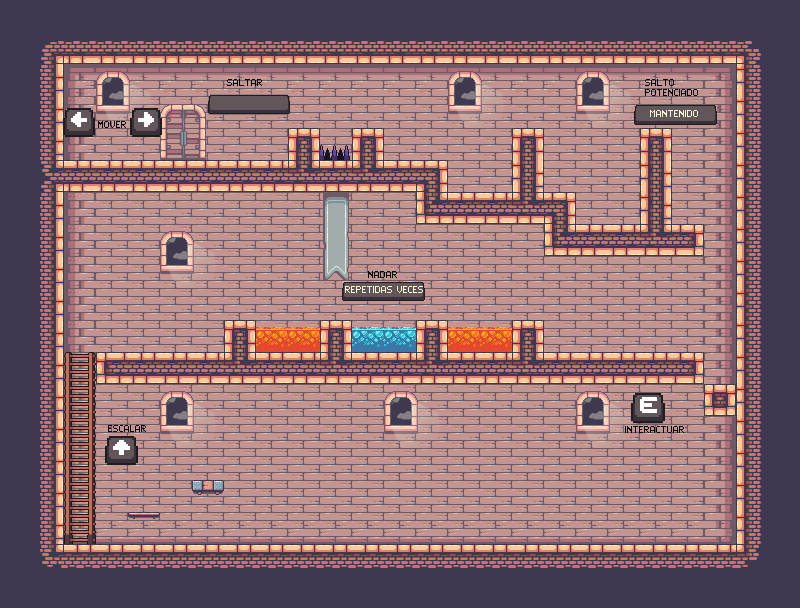
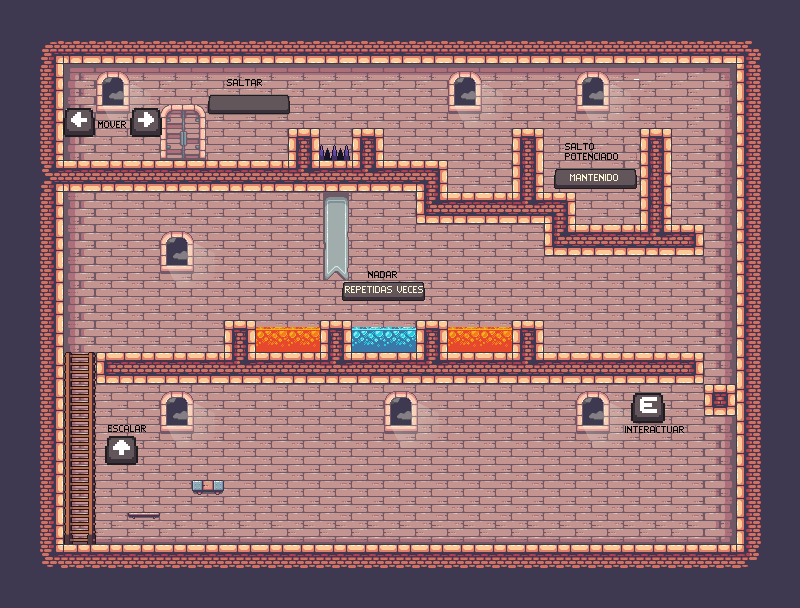
.

Changed region(s): [[0.7812, 0.0938, 0.9062, 0.2188], [0.6875, 0.2188, 0.8125, 0.3125]]

diff --git a/Classes/Bomb.py b/Classes/Bomb.py
@@ -2,16 +2,17 @@ import pygame
 from CRUD import Functions
 
 class bomb(pygame.sprite.Sprite):
-    def __init__(self,position):
+    def __init__(self,position,direction):
         pygame.sprite.Sprite.__init__(self)
         self.image = pygame.Surface([37,26])
         self.image.fill(Functions.SelectColor('Yellow'))
         self.rect = self.image.get_rect()
         self.rect.x = position[0]
         self.rect.y = position[1]
-        self.velx = 5
+        self.velx = direction
         self.vely = 0
         self.Bloques = None
+        self.time = 60
         
     def update(self):
         #Posicion y velocidad en x
@@ -19,7 +20,10 @@ class bomb(pygame.sprite.Sprite):
 
         if self.velx > 0:
             self.velx -= 1
-        """
+        
+        if self.time > 0:
+            self.time -= 1
+
         #colision x--------------------------------------------------------------------------------------
         listaColision=pygame.sprite.spritecollide(self,self.Bloques,False)
         for b in listaColision:
@@ -29,11 +33,10 @@ class bomb(pygame.sprite.Sprite):
             elif ((self.rect.left <= b.rect.right) and (self.rect.left >= b.rect.left)):
                 self.velx=0
                 self.rect.left = b.rect.right
-        """
-        
+
         #Posicion y velocidad en x
         self.rect.y+=self.vely
-        """
+
         #colision y--------------------------------------------------------------------------------------
         listaColision=pygame.sprite.spritecollide(self,self.Bloques,False)
         for b in listaColision:
@@ -44,6 +47,6 @@ class bomb(pygame.sprite.Sprite):
             elif ((self.rect.top <= b.rect.bottom) and (self.rect.top >= b.rect.top)):
                 self.vely = 0
                 self.rect.top = b.rect.bottom
-        """
+
         #Gravedad-------------------------------------------------------------------------------------
         self.vely += 0.7

diff --git a/CRUD/RoomLoader.py b/CRUD/RoomLoader.py
@@ -453,9 +453,6 @@ def LoadRoom(Player,Players,Blocks,Cerdos,Puas,Cannons,Ladders,Lava,Water,Doors,
 
                     #return R11.StartRoom(Player,Players,100, 280)
 
-    #Timer
-    Fuente = pygame.font.SysFont("Arial",30)
-    Tiempo = int(pygame.time.get_ticks() / 1000)
 
     Constants.Screen.fill([0,0,0])
     Players.update()
@@ -473,11 +470,11 @@ def LoadRoom(Player,Players,Blocks,Cerdos,Puas,Cannons,Ladders,Lava,Water,Doors,
     Players.draw(Constants.Screen)
     if Lava != None:
         pass
-    if Cerdos != None:
-        Cerdos.draw(Constants.Screen)
     eval('Constants.Coins'+currentLevel+currentRoom+'.draw(Constants.Screen)')
     eval('Constants.Apples'+currentLevel+currentRoom+'.draw(Constants.Screen)')
     eval('Constants.Diamonds'+currentLevel+currentRoom+'.draw(Constants.Screen)')
+    if Cerdos != None:
+        Cerdos.draw(Constants.Screen)
     if Cannons != None:
         Cannons.draw(Constants.Screen)
         eval('Constants.CannonBalls'+currentLevel+currentRoom+'.draw(Constants.Screen)')
@@ -501,10 +498,6 @@ def LoadRoom(Player,Players,Blocks,Cerdos,Puas,Cannons,Ladders,Lava,Water,Doors,
         Constants.ScoreManager.rect.y = 10
     Constants.ScoreManager.Scores.draw(Constants.Screen)
     Constants.ScoreManager.update()
-
-    #Mostrar Tiempo
-    Contador = Fuente.render(str(Tiempo),0,(255,255,255))
-    Constants.Screen.blit(Contador, [Constants.Width -80 ,5])
 
 
     pygame.display.flip()

diff --git a/Classes/StaticWitch.py b/Classes/StaticWitch.py
@@ -1,7 +1,7 @@
 import pygame
 from CRUD import Functions
 
-class cerdo(pygame.sprite.Sprite):
+class StaticWitch(pygame.sprite.Sprite):
     def __init__(self,position, pixeles):
         pygame.sprite.Sprite.__init__(self)
         self.Correr = pygame.image.load('Assets\Sprites\Pork\Run (34x28).png')
@@ -17,10 +17,10 @@ class cerdo(pygame.sprite.Sprite):
         self.Bloques = None
 
         #animacion
-        self.frame = 0
-        self.direccion = True
-        self.espera = 4
-        self.animacion = (10,0,19,22,44,0,19,22,79,0,18,22,113,0,18,22,147,0,18,22,181,0,18,22)
+        #self.frame = 0
+        #self.direccion = True
+        #self.espera = 4
+        #self.animacion = (10,0,19,22,44,0,19,22,79,0,18,22,113,0,18,22,147,0,18,22,181,0,18,22)
         
     def update(self):
         #Posicion y velocidad en x
@@ -62,6 +62,7 @@ class cerdo(pygame.sprite.Sprite):
             self.Movidos = self.Pixeles
             self.velx = self.velx * -1
 
+        """
         if self.frame < len(self.animacion) - 1:
             if self.direccion == True:
                 self.image = pygame.transform.flip(self.Correr.subsurface(self.animacion[self.frame],self.animacion[self.frame+1],self.animacion[self.frame+2],self.animacion[self.frame+3]),True,False)
@@ -74,3 +75,4 @@ class cerdo(pygame.sprite.Sprite):
                 self.espera -= 1 
         else:
             self.frame = 0 
+            """

diff --git a/main.py b/main.py
@@ -1,4 +1,4 @@
-from CRUD.Level1 import Room1 as R1
+from CRUD.Level1 import Room4 as R1
 from CRUD.Tutorial import TutorialRoom as TR
 from CRUD.Level1 import Room1 as R2
 from CRUD import RoomLoader as RL
@@ -26,7 +26,7 @@ def load_game():
     #currentLevel = R3.StartRoom(j,Players,150,200)
     #currentLevel = R2.StartRoom(j,Players,400, 300)
     #currentLevel = R1.StartRoom(j,Players,300, 280)
-    currentLevel = TR.StartRoom(j,Players,100,100)
+    currentLevel = R1.StartRoom(j,Players,100,100)
     Constants.ClockStart = pygame.time.get_ticks()
     return [j,Players,currentLevel]
 

diff --git a/Classes/Bomber.py b/Classes/Bomber.py
@@ -1,0 +1,21 @@
+import pygame
+from CRUD import Functions
+
+class Bomber(pygame.sprite.Sprite):
+    def __init__(self,position,m,direccion):
+        pygame.sprite.Sprite.__init__(self)
+        self.image = m
+        self.rect = self.image.get_rect()
+        self.rect.x = position[0]
+        self.rect.y = position[1]
+        self.velx = 0
+        self.vely = 0
+        self.timer = 30
+        self.direccion = direccion
+    
+
+    def update(self):
+       self.timer -= 1
+    
+    def returnPos(self):
+        return self.rect.center

diff --git a/CRUD/Constants.py b/CRUD/Constants.py
@@ -29,7 +29,7 @@ Screen = pygame.display.set_mode([Width,Height])
 Clock = pygame.time.Clock()
 ClockStart = None
 #Mapa Tutorial
-MapaTutorial = pygame.image.load('Assets\Levels\Tutorial\Tutorial.png')
+MapaTutorial = pygame.image.load('Assets\Levels\Tutorial\Tutorial2.png')
 #Mapa nivel 1
 mapa1A = pygame.image.load('Assets\Levels\Level1\Level1a.png')
 mapa1B = pygame.image.load('Assets\Levels\Level1\Level1b.png')
